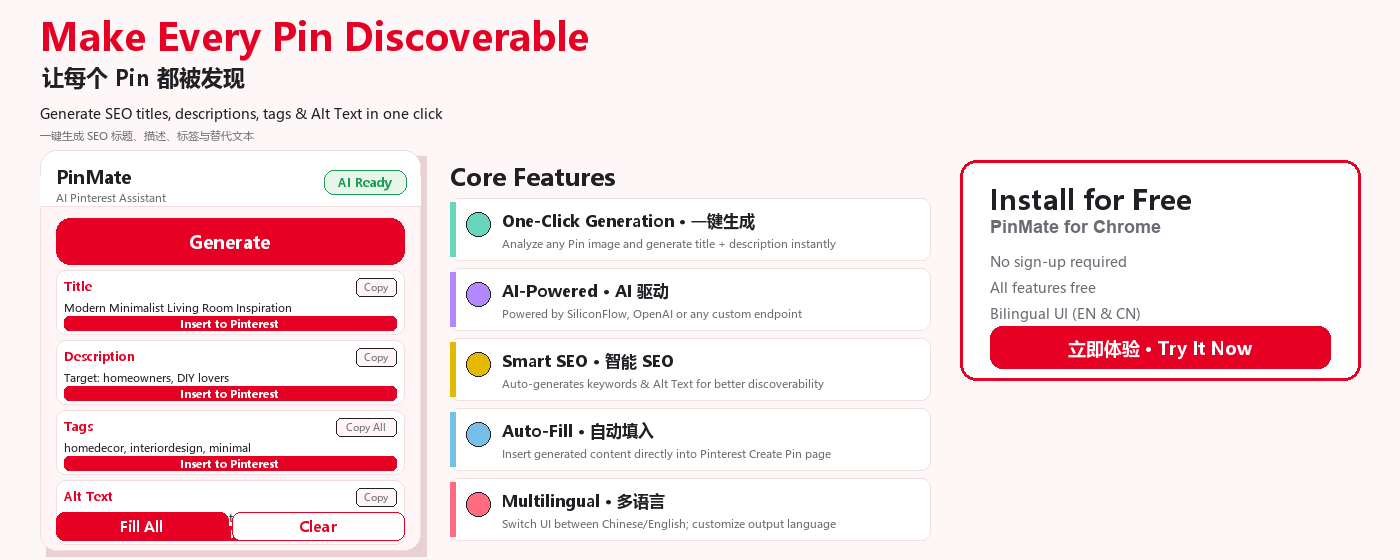
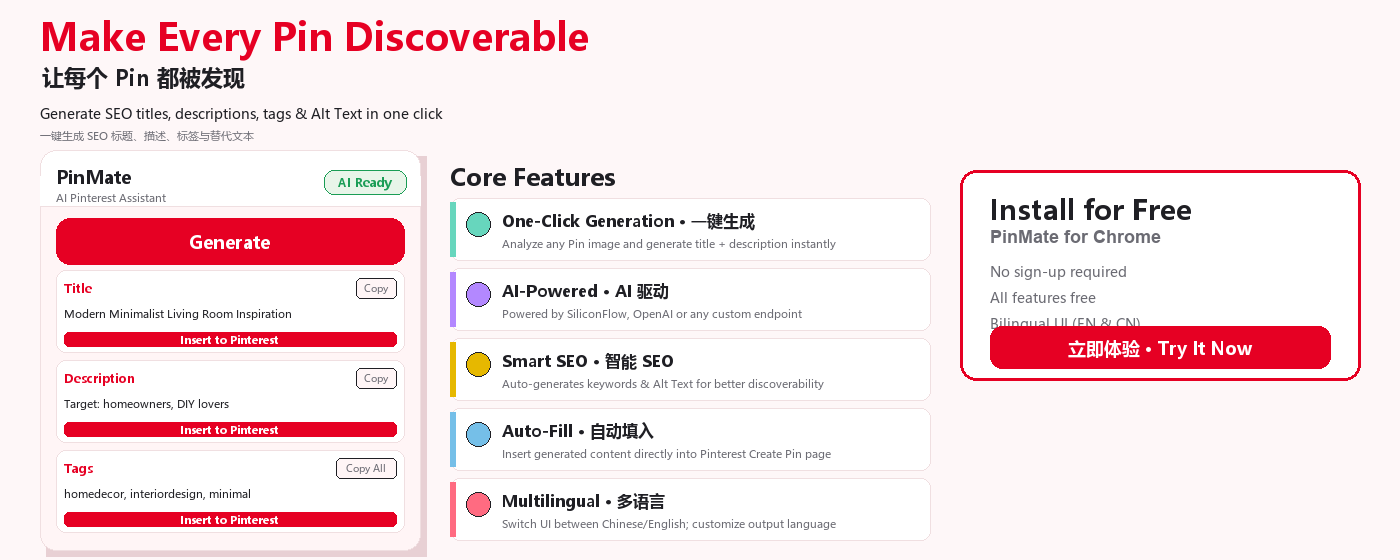
PinMate promo: remove Fill All/Clear, fix card overflow

Changed region(s): [[0.0307, 0.5161, 0.3071, 0.9714], [0.6757, 0.2732, 0.9829, 0.6071]]

diff --git a/assets/generate-store-promo.py b/assets/generate-store-promo.py
@@ -163,52 +163,40 @@ def small_promo():
     text(d, (px + pw // 2, gbtn_y + 10), "Generate",
          fill="white", f=FE["tiny"], anchor="mm")
 
-    # 4 field cards (compact): title + Copy mini (top-right) + 1 line + Insert to Pinterest
+    # 3 field cards (compact): title + Copy mini (top-right) + 1 line + Insert to Pinterest
     cards = [
         ("Title", "Sage Green Living Room", "Copy"),
         ("Description", "Audience + keywords", "Copy"),
-        ("Tags", "homedecor, diy", "Copy All"),
         ("Alt Text", "Cream chair with plants", "Copy"),
     ]
     cy = gbtn_y + 22
-    ch = 30
-    cgap = 3
-    f_body = font(8)
-    f_insert = font(7)
+    ch = 44
+    cgap = 5
+    f_body = font(9)
+    f_insert = font(8)
     for (ctitle, cbody, cbtn) in cards:
         rounded_rect(d, (px + 6, cy, px + pw - 6, cy + ch), radius=5,
                      fill=C["surface"], outline=C["border"], width=1)
         # title (red, left)
-        text(d, (px + 10, cy + 3), ctitle, fill=C["primary"], f=FE["tiny"])
+        text(d, (px + 10, cy + 5), ctitle, fill=C["primary"], f=FE["tiny"])
         # Copy mini button (top-right)
-        cbtn_w = 46 if cbtn == "Copy All" else 32
+        cbtn_w = 32
         bx1 = px + pw - 6 - cbtn_w
         bx2 = px + pw - 10
-        rounded_rect(d, (bx1, cy + 2, bx2, cy + 12), radius=3,
+        rounded_rect(d, (bx1, cy + 3, bx2, cy + 14), radius=3,
                      fill=C["bg"], width=1)
-        text(d, ((bx1 + bx2) // 2, cy + 7), cbtn,
+        text(d, ((bx1 + bx2) // 2, cy + 9), cbtn,
              fill=C["sub"], f=FE["tiny"], anchor="mm")
         # body line
-        text(d, (px + 10, cy + 13), cbody, f=f_body)
+        text(d, (px + 10, cy + 18), cbody, f=f_body)
         # Insert to Pinterest button (bottom of card)
-        by1 = cy + ch - 12
-        by2 = cy + ch - 3
+        by1 = cy + ch - 15
+        by2 = cy + ch - 4
         rounded_rect(d, (px + 10, by1, px + pw - 10, by2), radius=3,
                      fill=C["primary"], width=0)
         text(d, (px + pw // 2, (by1 + by2) // 2), "Insert to Pinterest",
              fill="white", f=f_insert, anchor="mm")
         cy += ch + cgap
-
-    # bottom Fill All + Clear row
-    fy = py + ph - 24
-    rounded_rect(d, (px + 6, fy, px + pw // 2 - 1, fy + 18), radius=4,
-                 fill=C["primary"], width=0)
-    text(d, (px + 6 + (pw // 2 - 7) // 2, fy + 9), "Fill All",
-         fill="white", f=FE["tiny"], anchor="mm")
-    rounded_rect(d, (px + pw // 2 + 1, fy, px + pw - 6, fy + 18), radius=4,
-                 fill=C["surface"], outline=C["primary"], width=1)
-    text(d, (px + pw // 2 + 1 + (pw // 2 - 7) // 2, fy + 9), "Clear",
-         fill=C["primary"], f=FE["tiny"], anchor="mm")
 
     # ── Right: feature list (no emoji, colored dot only) ──
     rx = 216
@@ -297,48 +285,36 @@ def large_promo():
     text(d, (pm_x + pm_w // 2, gen_btn_y + 23), "Generate",
          fill="white", f=font(18, bold=True), anchor="mm")
 
-    # 4 field cards: title + Copy mini (top-right) + 1 line + Insert to Pinterest
+    # 3 field cards: title + Copy mini (top-right) + 1 line + Insert to Pinterest
     cards = [
         ("Title", "Modern Minimalist Living Room Inspiration", "Copy"),
         ("Description", "Target: homeowners, DIY lovers", "Copy"),
         ("Tags", "homedecor, interiordesign, minimal", "Copy All"),
-        ("Alt Text", "White sofa with plants and oak table", "Copy"),
     ]
     card_y = gen_btn_y + 52
-    ch = 64
-    cgap = 6
+    ch = 82
+    cgap = 8
     for (ctitle, cbody, cbtn) in cards:
         rounded_rect(d, (pm_x + 16, card_y, pm_x + pm_w - 16, card_y + ch), radius=10,
                      fill=C["surface"], outline=C["border"], width=1)
-        text(d, (pm_x + 24, card_y + 8), ctitle, fill=C["primary"],
+        text(d, (pm_x + 24, card_y + 10), ctitle, fill=C["primary"],
              f=font(12, bold=True))
         # Copy mini button (top-right)
         cbtn_w = 68 if cbtn == "Copy All" else 48
         bx1 = pm_x + pm_w - 16 - cbtn_w
         bx2 = pm_x + pm_w - 24
-        rounded_rect(d, (bx1, card_y + 8, bx2, card_y + 26), radius=5,
+        rounded_rect(d, (bx1, card_y + 8, bx2, card_y + 28), radius=5,
                      fill=C["bg"], width=1)
-        text(d, ((bx1 + bx2) // 2, card_y + 17), cbtn,
+        text(d, ((bx1 + bx2) // 2, card_y + 18), cbtn,
              fill=C["sub"], f=font(10), anchor="mm")
         # body line
-        text(d, (pm_x + 24, card_y + 30), cbody, f=FZ["tiny"])
+        text(d, (pm_x + 24, card_y + 36), cbody, f=FZ["tiny"])
         # Insert to Pinterest button (bottom of card)
-        rounded_rect(d, (pm_x + 24, card_y + ch - 18, pm_x + pm_w - 24, card_y + ch - 4),
+        rounded_rect(d, (pm_x + 24, card_y + ch - 20, pm_x + pm_w - 24, card_y + ch - 6),
                      radius=5, fill=C["primary"], width=0)
-        text(d, (pm_x + pm_w // 2, card_y + ch - 11), "Insert to Pinterest",
+        text(d, (pm_x + pm_w // 2, card_y + ch - 13), "Insert to Pinterest",
              fill="white", f=font(11, bold=True), anchor="mm")
         card_y += ch + cgap
-
-    # bottom Fill All + Clear row
-    fy = pm_y + pm_h - 38
-    rounded_rect(d, (pm_x + 16, fy, pm_x + pm_w // 2 - 2, fy + 28), radius=8,
-                 fill=C["primary"], width=0)
-    text(d, (pm_x + 16 + (pm_w // 2 - 18) // 2, fy + 14), "Fill All",
-         fill="white", f=font(15, bold=True), anchor="mm")
-    rounded_rect(d, (pm_x + pm_w // 2 + 2, fy, pm_x + pm_w - 16, fy + 28), radius=8,
-                 fill=C["surface"], outline=C["primary"], width=1.5)
-    text(d, (pm_x + pm_w // 2 + 2 + (pm_w // 2 - 18) // 2, fy + 14), "Clear",
-         fill=C["primary"], f=font(15, bold=True), anchor="mm")
 
     # ── Col 2: Feature highlights (center) ──
     cx = 450
@@ -383,11 +359,11 @@ def large_promo():
 
     # ── Col 3: CTA + trust badges (right) ──
     rx = 960
-    ry = 160
+    ry = 170
 
     # CTA box
     cta_box_w = 400
-    cta_box_h = 220
+    cta_box_h = 210
     rounded_rect(d, (rx, ry, rx + cta_box_w, ry + cta_box_h), radius=16,
                  fill=C["surface"], outline=C["primary"], width=3)
 
